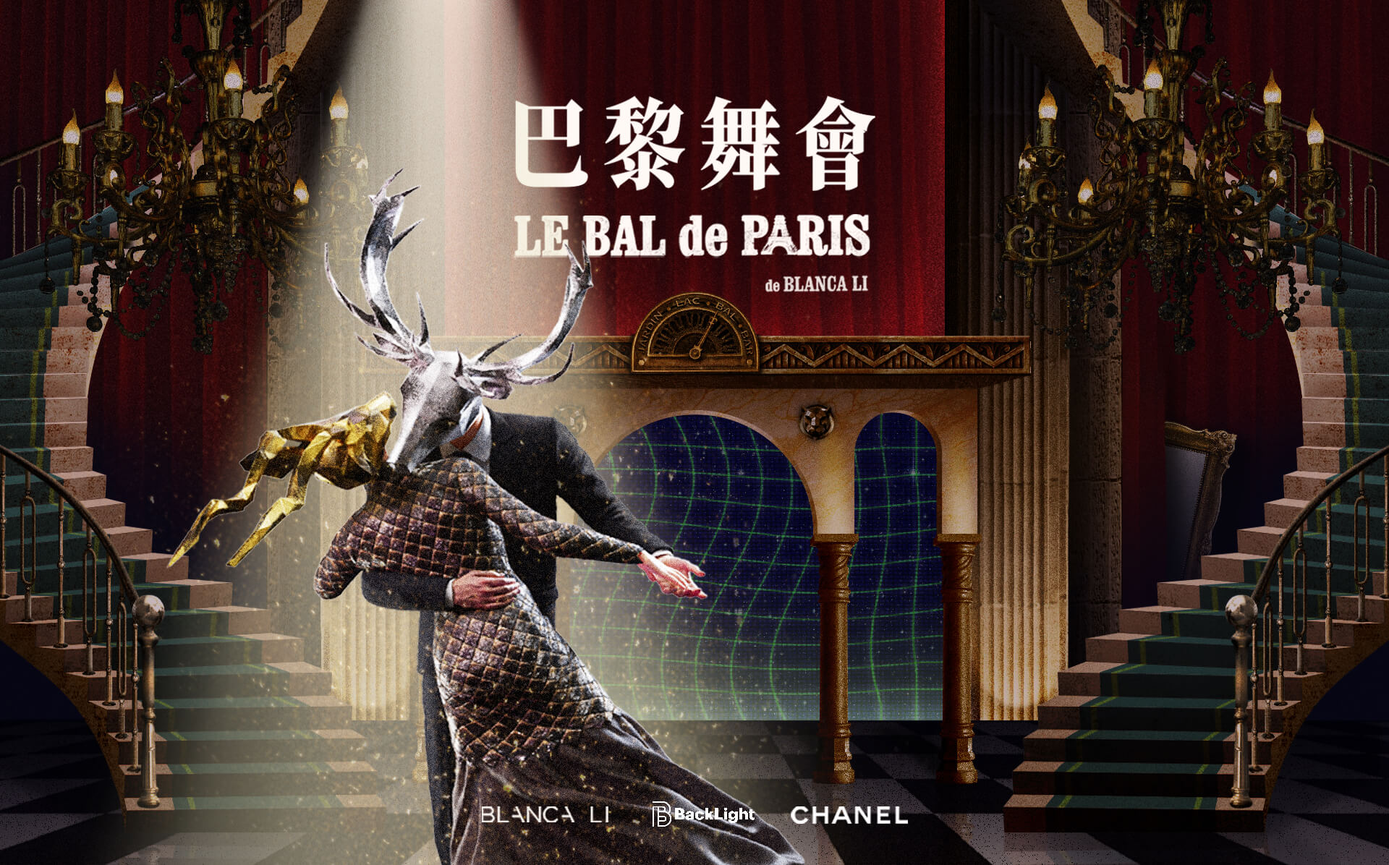
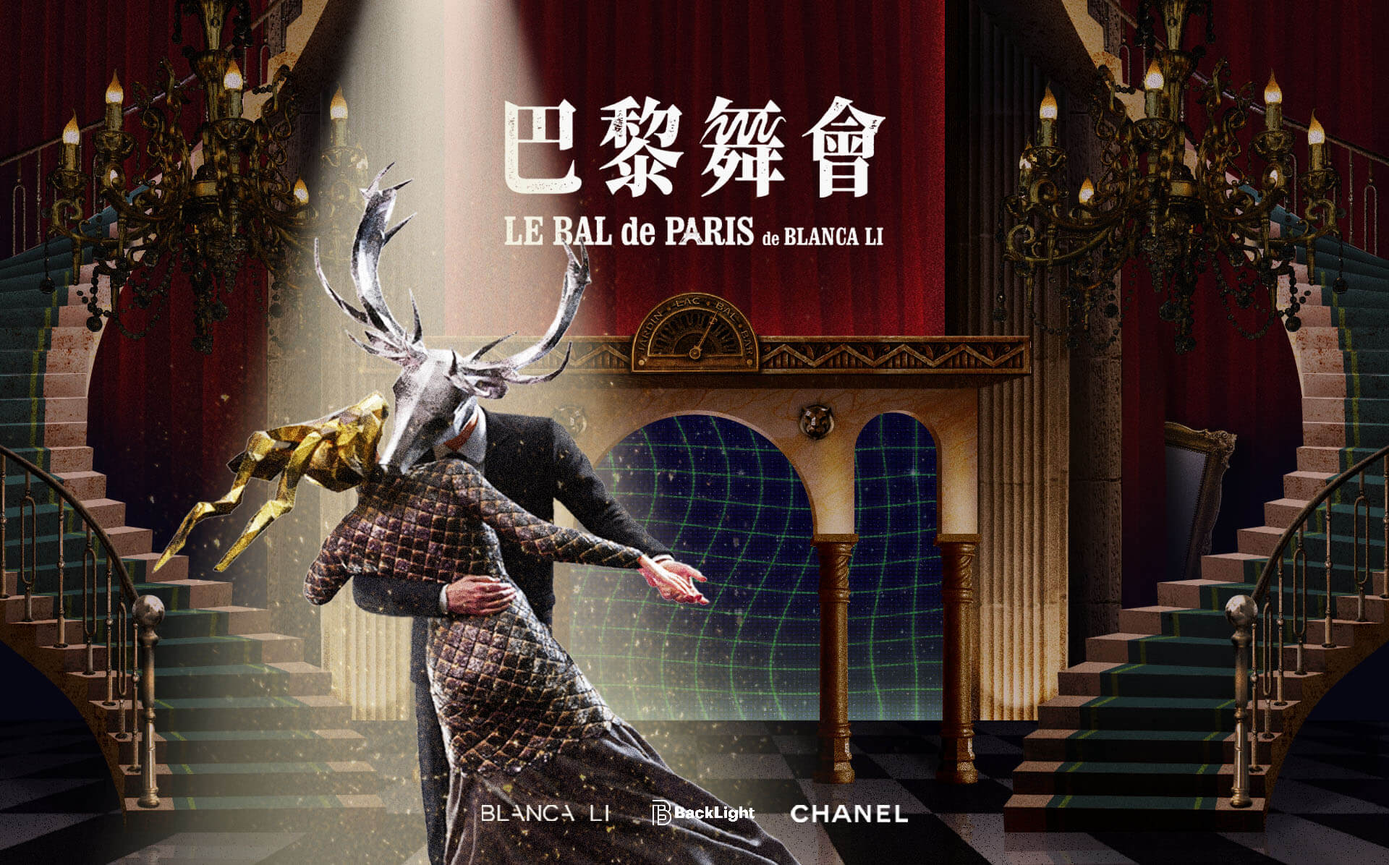
改首頁圖

diff --git a/public/landingPage/style.css b/public/landingPage/style.css
@@ -71,7 +71,7 @@
 }
 
 .paris{
-    background-image: url(img/bg-paris.jpg);
+    background-image: url(img/bg-paris.jpg?231023);
     background-size: cover;
     background-position: center;
     border-left-width: 2.5px;
